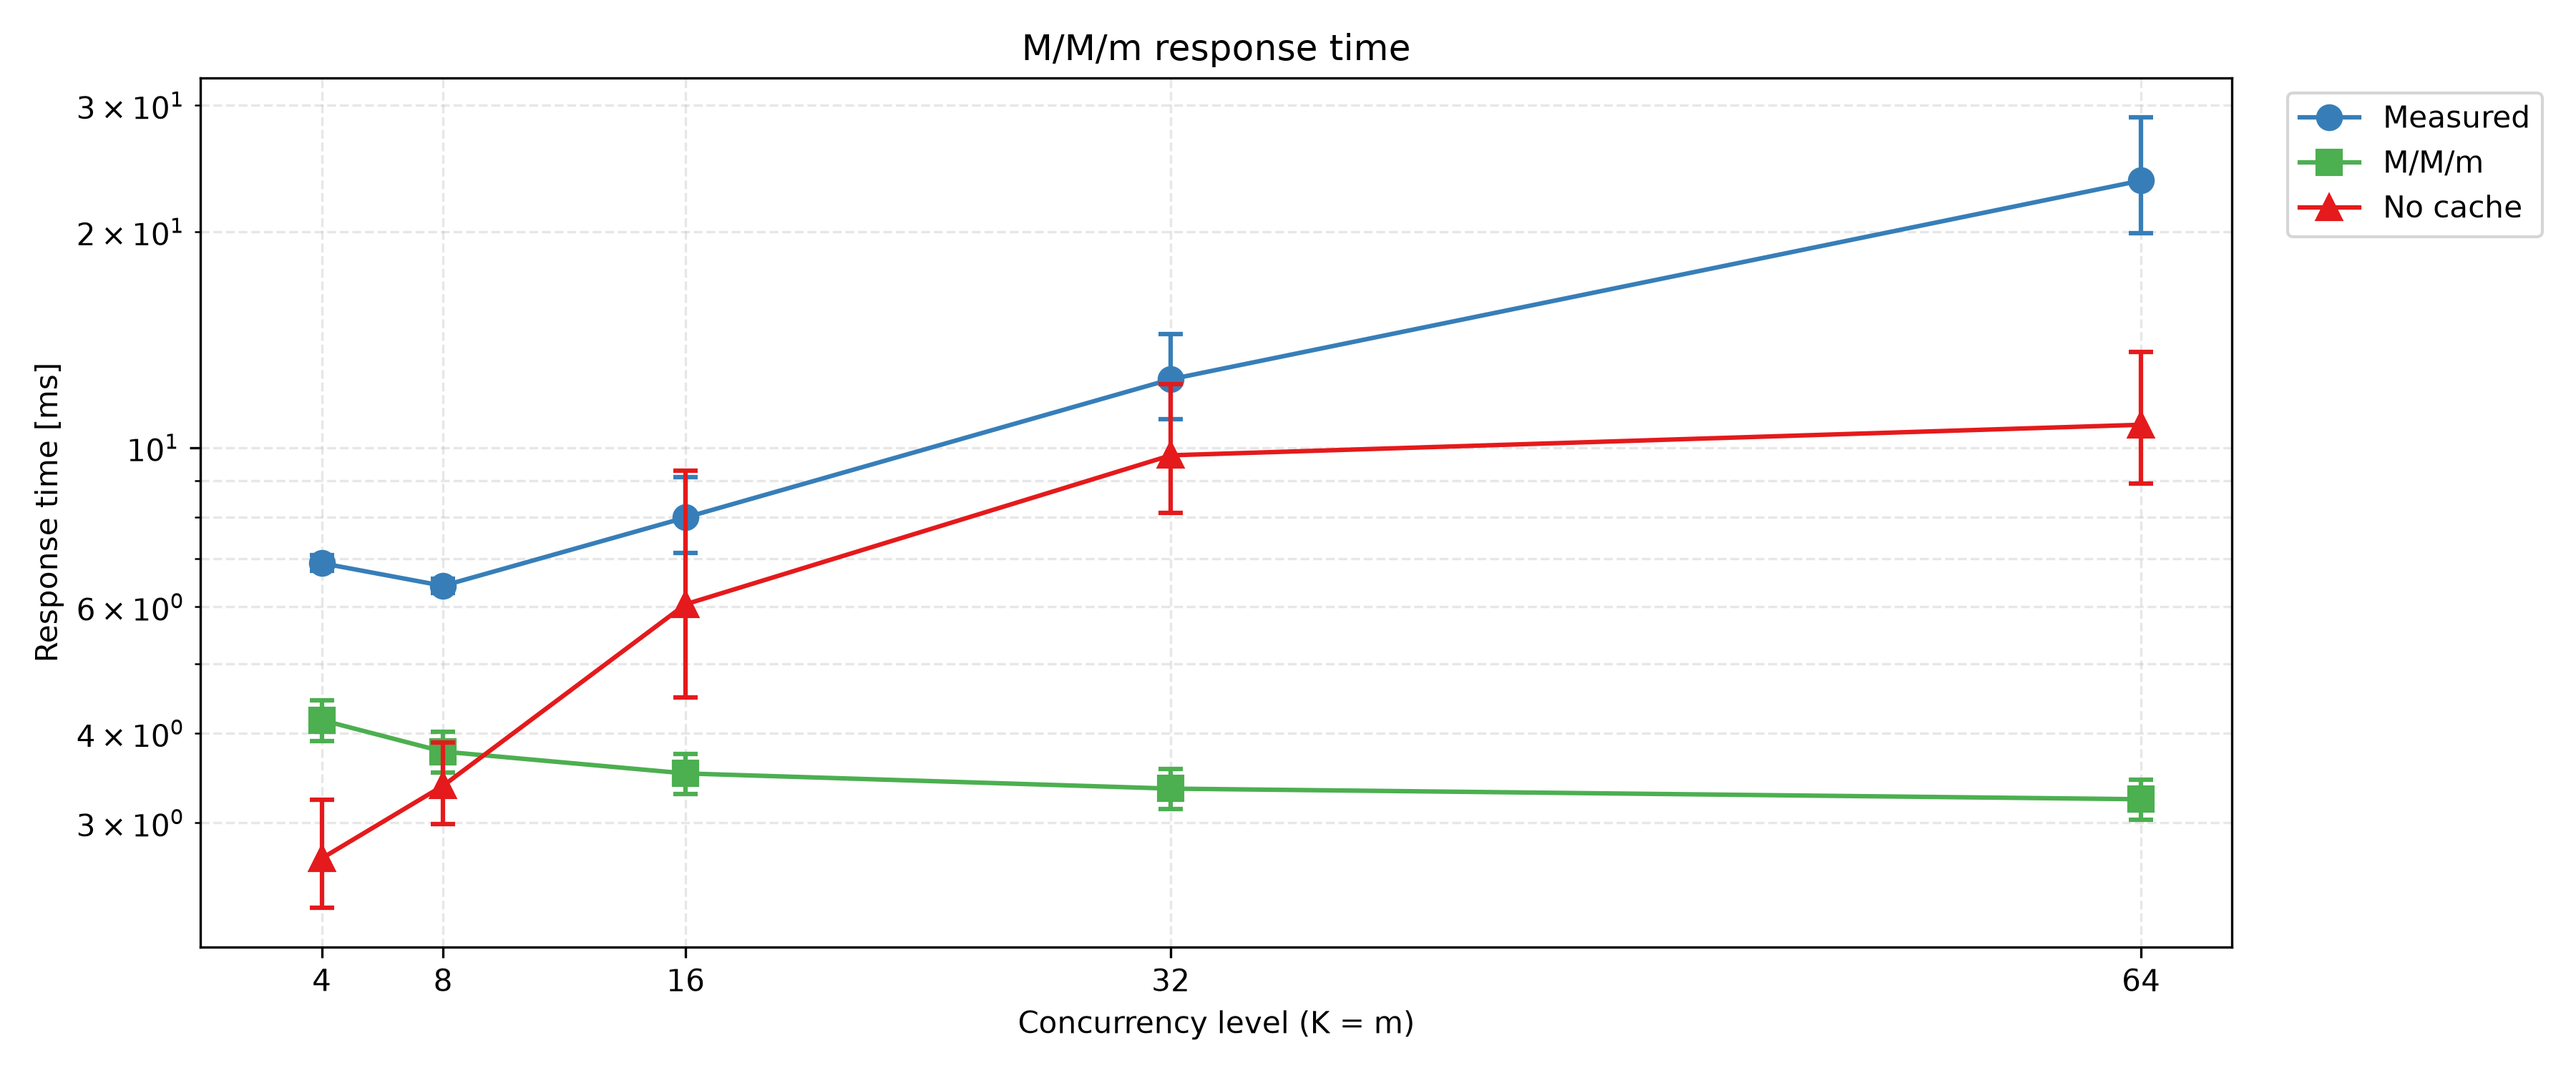
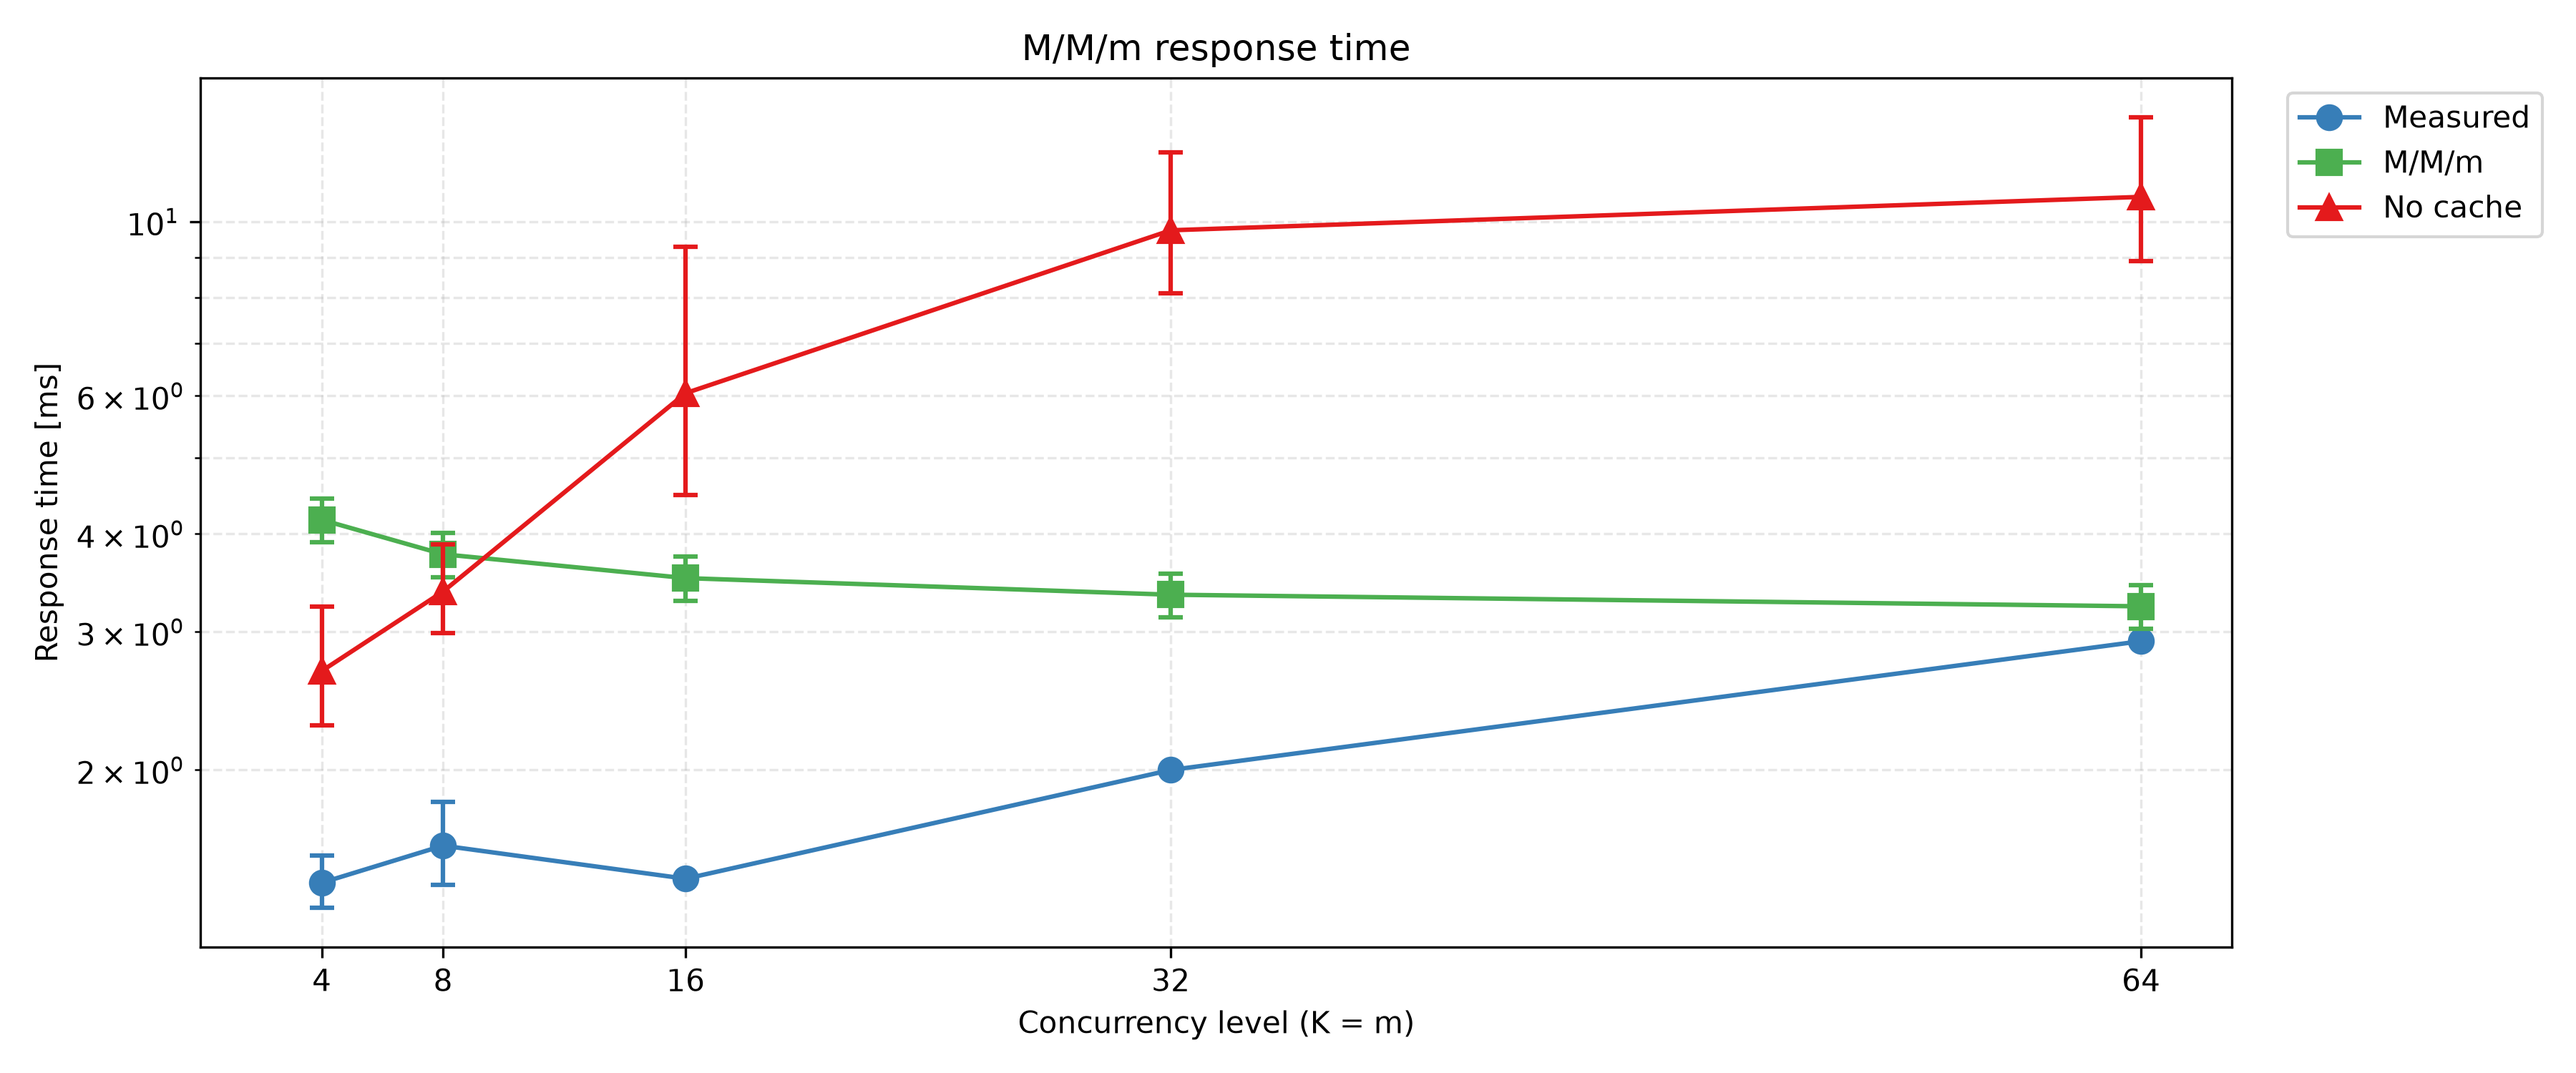
update input dir

diff --git a/plot/modelling/mmm-responsetime.py b/plot/modelling/mmm-responsetime.py
@@ -5,7 +5,7 @@ import sys
 from pathlib import Path
 
 import matplotlib.pyplot as plt
-from matplotlib.ticker import MultipleLocator
+from matplotlib.ticker import LogFormatterMathtext, LogLocator
 
 PROJECT_ROOT = Path(__file__).resolve().parents[2]
 sys.path.insert(0, str(PROJECT_ROOT))
@@ -17,12 +17,18 @@ from plot.config import (
     GREEN,
     RED,
     M,
-    data_dir_for,
     grid_style,
     legend_pos,
     load_csv,
     mean_ci,
 )
+
+MEASURED_DIR = "csv/p2/exp3"
+
+
+def data_dir_for(label: str, size: str, dist: str):
+    return f"{MEASURED_DIR}/{label}/{size}/{dist}"
+
 
 FACT = [math.factorial(n) for n in range(65)]
 
@@ -321,6 +327,8 @@ def format_axes(ax, ks, title="M/M/m response time"):
     ax.set_xticks(ks)
     ax.set_xlim(left=0)
     ax.set_yscale("log")
+    ax.yaxis.set_major_locator(LogLocator(base=10))
+    ax.yaxis.set_major_formatter(LogFormatterMathtext(base=10))
     ax.set_ylabel("Response time [ms]")
     ax.legend(**legend_pos)
     ax.grid(True, which="both", **grid_style)
@@ -347,96 +355,6 @@ def plot_single(
     format_axes(ax, ks)
 
     plt.tight_layout()
-    return fig
-
-
-def plot_broken(
-    ks,
-    rt_meas,
-    rt_lo,
-    rt_hi,
-    rt_mmm,
-    rt_mmm_ci_lo,
-    rt_mmm_ci_hi,
-    rt_no_cache,
-    rt_nc_ci_lo,
-    rt_nc_ci_hi,
-    lower_max,
-    upper_min,
-    y_min,
-    y_max,
-):
-    """
-    Log-scale broken axis used when the measured response time is much
-    lower than the M/M/m prediction.
-
-    Top subplot: prediction-dominated range.
-    Bottom subplot: measured-data range.
-    """
-    fig, (ax_top, ax_bot) = plt.subplots(
-        2,
-        1,
-        sharex=True,
-        gridspec_kw={
-            "height_ratios": [1, 1],
-            "hspace": 0.08,
-        },
-        figsize=(FIGSIZE[0], FIGSIZE[1] * 1.8),
-    )
-
-    for ax in (ax_top, ax_bot):
-        ax.set_yscale("log")
-        ax.grid(True, which="both", **grid_style)
-
-    # Top: predicted/high response-time region.
-    add_measured(ax_top, ks, rt_meas, rt_lo, rt_hi)
-    add_predicted(ax_top, ks, rt_mmm, rt_mmm_ci_lo, rt_mmm_ci_hi)
-    add_no_cache(ax_top, ks, rt_no_cache, rt_nc_ci_lo, rt_nc_ci_hi)
-
-    ax_top.set_ylim(upper_min, y_max)
-    ax_top.set_title("M/M/m response time")
-    ax_top.spines["bottom"].set_visible(False)
-    ax_top.tick_params(bottom=False)
-    ax_top.legend(**legend_pos)
-
-    # Bottom: measured/lower response-time region.
-    add_measured(ax_bot, ks, rt_meas, rt_lo, rt_hi)
-    add_predicted(ax_bot, ks, rt_mmm, rt_mmm_ci_lo, rt_mmm_ci_hi)
-    add_no_cache(ax_bot, ks, rt_no_cache, rt_nc_ci_lo, rt_nc_ci_hi)
-
-    ax_bot.set_ylim(y_min, lower_max)
-    ax_bot.spines["top"].set_visible(False)
-    ax_bot.tick_params(top=False)
-    ax_bot.set_xlabel("Concurrency level (K = m)")
-    ax_bot.set_xticks(ks)
-    ax_bot.legend(**legend_pos)
-
-    # Break marks.
-    d = 0.015
-    kwargs = dict(color="k", clip_on=False)
-
-    ax_top.plot((-d, +d), (-d, +d), transform=ax_top.transAxes, **kwargs)
-    ax_top.plot((1 - d, 1 + d), (-d, +d), transform=ax_top.transAxes, **kwargs)
-
-    ax_bot.plot((-d, +d), (1 - d, 1 + d), transform=ax_bot.transAxes, **kwargs)
-    ax_bot.plot((1 - d, 1 + d), (1 - d, 1 + d), transform=ax_bot.transAxes, **kwargs)
-
-    fig.text(
-        0.04,
-        0.5,
-        "Response time [ms]",
-        va="center",
-        rotation="vertical",
-        fontsize=11,
-    )
-
-    fig.subplots_adjust(
-        left=0.12,
-        right=0.95,
-        top=0.93,
-        bottom=0.12,
-    )
-
     return fig
 
 
@@ -525,105 +443,18 @@ def main():
             no_cache_means, no_cache_ci_lo, no_cache_ci_hi
         )
 
-        # ---------------------------------------------------------------
-        # Determine axis range
-        # ---------------------------------------------------------------
-
-        finite_meas = [v for v in rt_meas if math.isfinite(v) and v > 0]
-        finite_mmm = [v for v in rt_mmm if math.isfinite(v) and v > 0]
-        finite_no_cache = [v for v in rt_no_cache if math.isfinite(v) and v > 0]
-
-        all_vals = finite_meas + finite_mmm + finite_no_cache
-
-        if not all_vals:
-            continue
-
-        measured_vals = finite_meas + finite_no_cache
-
-        if not measured_vals or not finite_mmm:
-            continue
-
-        # ---------------------------------------------------------------
-        # Broken-axis decision
-        #
-        # Create the lower subplot when the M/M/m prediction is much
-        # larger than the measured response time.  The comparison is
-        # point-wise so one extreme value does not hide the others.
-        # ---------------------------------------------------------------
-
-        ratios = [
-            rt_mmm[i] / measured
-            for i, measured in enumerate(rt_meas)
-            if (
-                i < len(rt_mmm)
-                and math.isfinite(rt_mmm[i])
-                and math.isfinite(measured)
-                and measured > 0
-                and rt_mmm[i] > 0
-            )
-        ]
-
-        ratios += [
-            rt_mmm[i] / rt_no_cache[i]
-            for i in range(min(len(rt_mmm), len(rt_no_cache)))
-            if (
-                math.isfinite(rt_mmm[i])
-                and math.isfinite(rt_no_cache[i])
-                and rt_no_cache[i] > 0
-                and rt_mmm[i] > 0
-            )
-        ]
-
-        prediction_much_higher = any(ratio >= 5.0 for ratio in ratios)
-
-        if prediction_much_higher:
-            # Put measured values in the lower range and predicted values
-            # in the upper range.  A small multiplicative gap makes the
-            # separation visually clear on the log scale.
-            lower_max = max(measured_vals) * 1.8
-            upper_min = min(finite_mmm) / 1.8
-
-            # If the ranges overlap, use the largest measured value as
-            # the split and the smallest prediction above it.
-            if upper_min <= lower_max:
-                upper_candidates = [
-                    v for v in finite_mmm if v > lower_max
-                ]
-                if upper_candidates:
-                    upper_min = min(upper_candidates) / 1.1
-
-            y_min = min(all_vals) / 1.5
-            y_max = max(all_vals) * 1.5
-
-            fig = plot_broken(
-                ks,
-                rt_meas,
-                rt_lo,
-                rt_hi,
-                rt_mmm,
-                rt_mmm_ci_lo,
-                rt_mmm_ci_hi,
-                rt_no_cache,
-                rt_nc_ci_lo,
-                rt_nc_ci_hi,
-                lower_max,
-                upper_min,
-                y_min,
-                y_max,
-            )
-        else:
-            fig = plot_single(
-                ks,
-                rt_meas,
-                rt_lo,
-                rt_hi,
-                rt_mmm,
-                rt_mmm_ci_lo,
-                rt_mmm_ci_hi,
-                rt_no_cache,
-                rt_nc_ci_lo,
-                rt_nc_ci_hi,
-            )
+        fig = plot_single(
+            ks,
+            rt_meas,
+            rt_lo,
+            rt_hi,
+            rt_mmm,
+            rt_mmm_ci_lo,
+            rt_mmm_ci_hi,
+            rt_no_cache,
+            rt_nc_ci_lo,
+            rt_nc_ci_hi,
+        )
 
         # ---------------------------------------------------------------
         # Save
